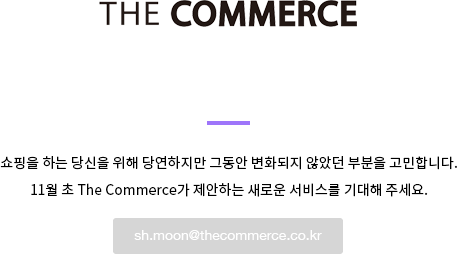
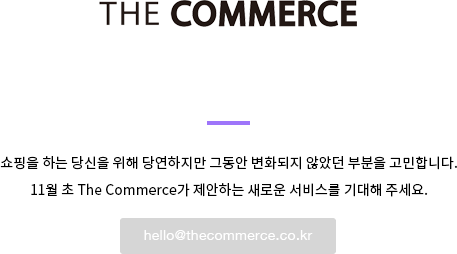
.

Changed region(s): [[0.2451, 0.8543, 0.5208, 1.0], [0.5514, 0.9094, 0.7046, 0.9646], [0.7352, 0.8543, 0.7659, 1.0]]

diff --git a/index.html b/index.html
@@ -6,8 +6,8 @@
 		.outer {
 			display: table;
 			position: absolute;
-			height: 100%;
-			width: 100%;
+			height: 95%;
+			width: 95%;
 		}
 
 		.middle {
@@ -18,7 +18,16 @@
 		.inner {
 			margin-left: auto;
 			margin-right: auto; 
-			width: 457px;
+			width: 90%; 
+		}
+
+		img {
+			display: block;
+			margin-left: auto;
+			margin-right: auto;
+			max-width: 457px;
+			width: 100%;
+			height: auto;
 		}
 		</style>
 	</head>
@@ -26,7 +35,7 @@
 		<div class="outer">
 			<div class="middle">
 				<div class="inner">
-					<a href="mailto:sh.moon@thecommerce.co.kr?subject=[더커머스 문의]"><img src="main.png"></a>
+					<a href="mailto:hello@thecommerce.co.kr?subject=[더커머스 문의]"><img src="main.png"></a>
 				</div>
 			</div>
 		</div>
